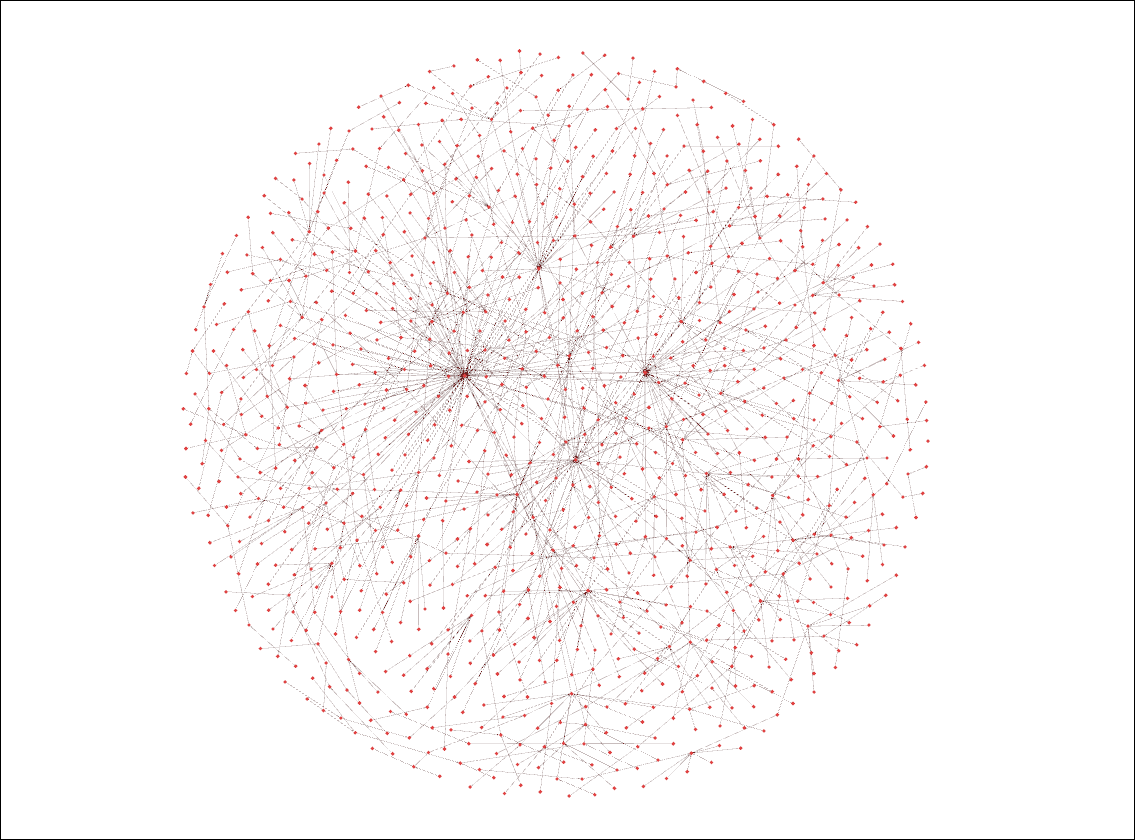
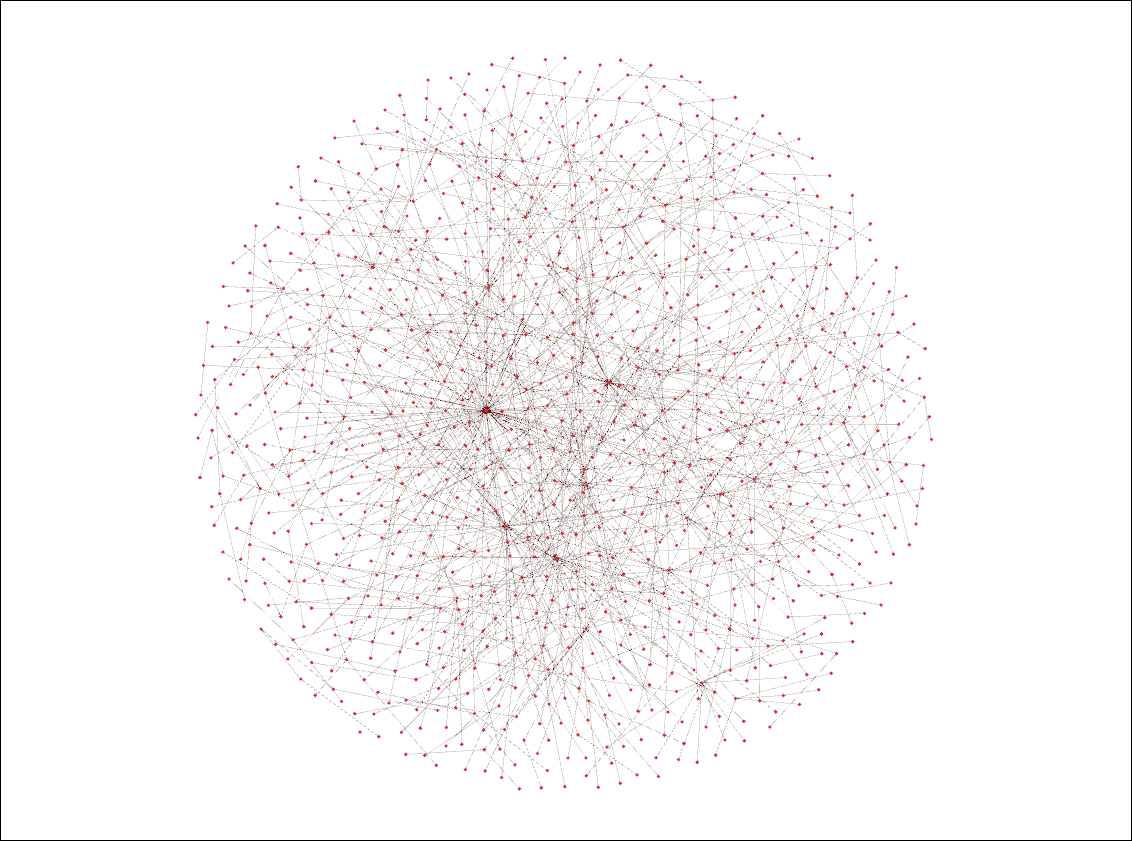
Made new visualizations for tutorial 9

Changed region(s): [[0.1546, 0.0619, 0.8348, 0.9595]]

diff --git a/docs/tutorial09.md b/docs/tutorial09.md
@@ -30,7 +30,7 @@ Running this network simulation and visualizing it, we produced the following:
 
 ## Constructing a Network With These Other Follow Methods
 
-We shall now implement the other follow methods into a network simulation. Using the INFILE.yaml we just created as a starting point, we will change the *follow_reaction_prob* back to 0.1 to enable following via retweets, and have *use_followback* switched to *true* and the *Standard* agent type *followback_probability* to 0.44, to permit followback to occur in the network simulation at a rate that matches what was found through experiment. With these follow methods now permitted to occur, we shall run and visualize this network simulation and see what we find.
+We shall now implement the other follow methods into a network simulation. Using the INFILE.yaml we just created as a starting point, we will change the *follow_reaction_prob* back to 0.2 to enable following via retweets, and have *use_followback* switched to *true* and the *Standard* agent type *followback_probability* to 0.44, to permit followback to occur in the network simulation at a rate that matches what was found through experiment. With these follow methods now permitted to occur, we shall run and visualize this network simulation and see what we find.
 
 ## Running and Visualizing This Network With These Other Follow Methods
 
